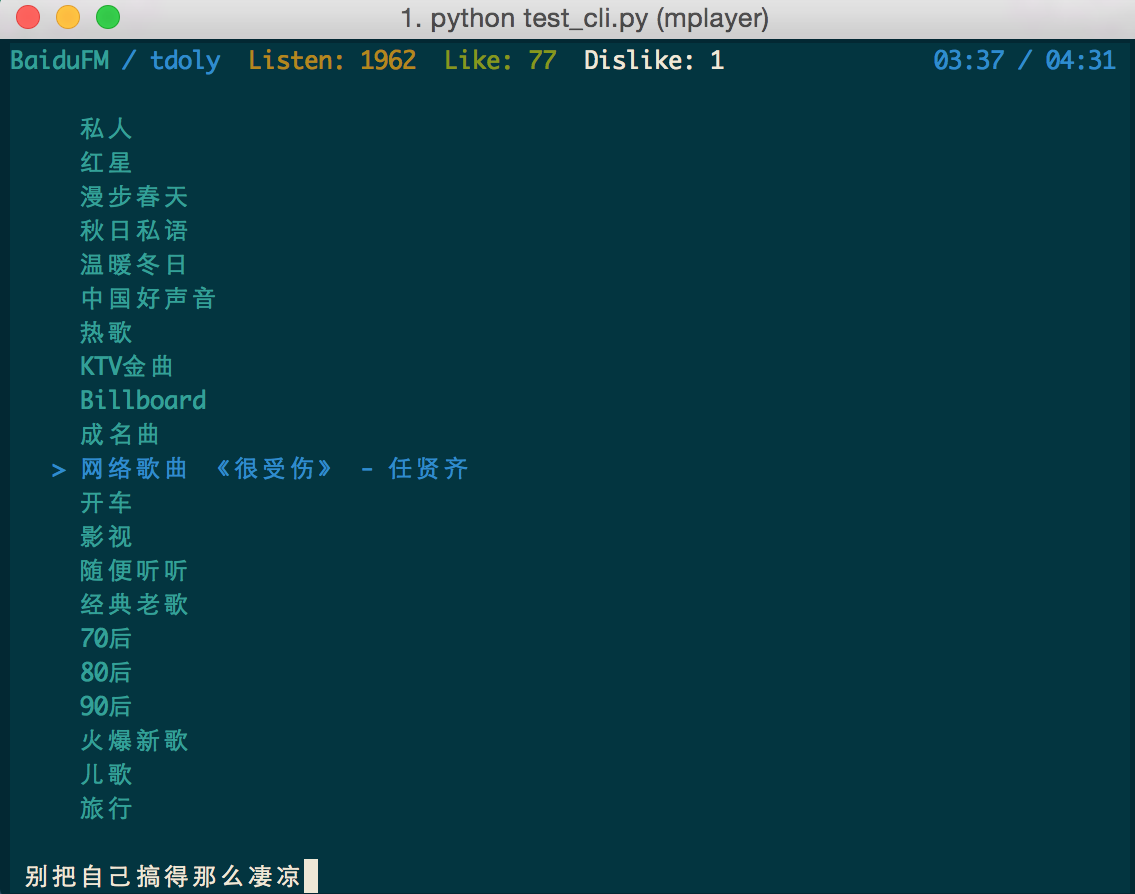
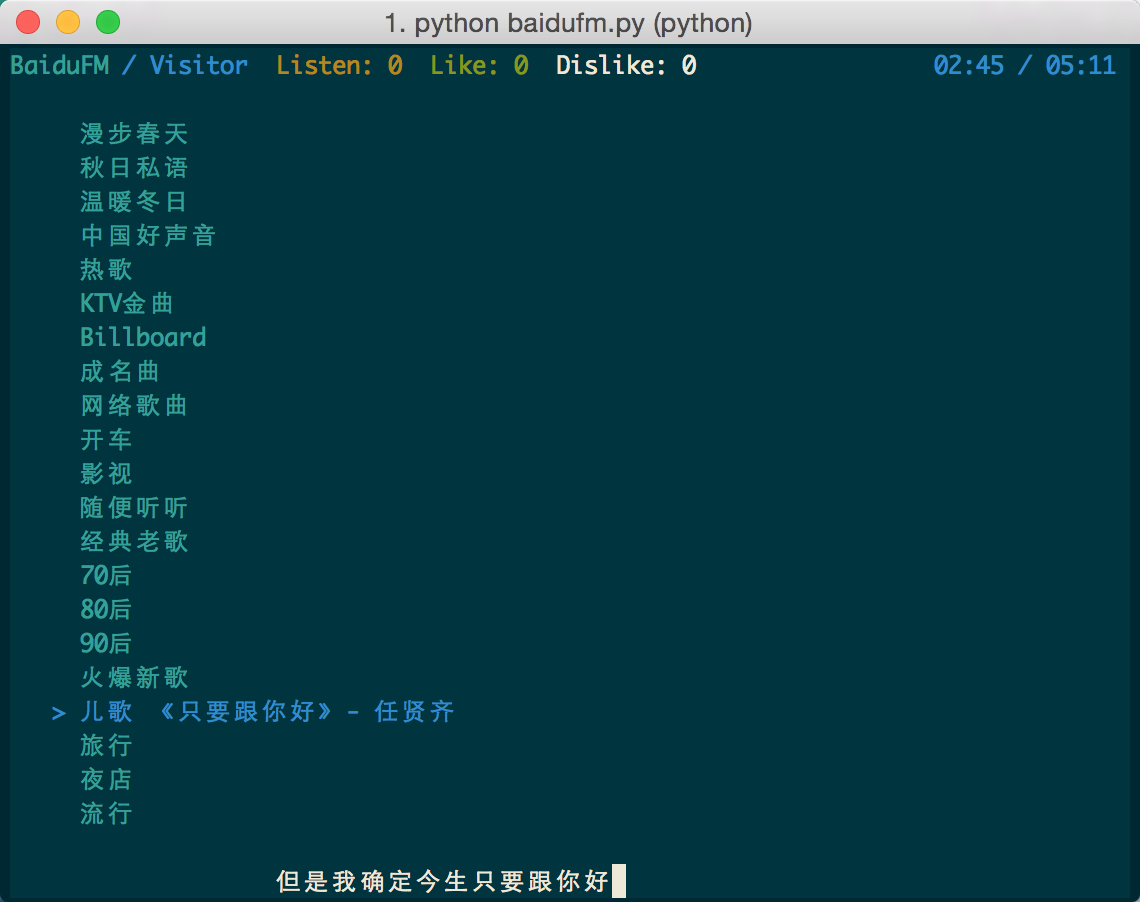
show Captcha

diff --git a/index.html b/index.html
@@ -23,13 +23,24 @@
           <p class="text-center">依赖mplayer或vlc。</p>
         </section>
         <div class="text-center">
-        <img src="images/1.png" width="585" height="451">
-      </div>
+          <img src="images/3.png" width="585" height="451">
+        </div>
       </div>
     </div>
     <div class="container">
       <div class="starter-template">
         <section class="content">
+          <h1 id="feature">Feature</h1>
+          <ul>
+            <li>随机播放Baidu FM音乐</li>
+            <li>登录Baidu FM（显示验证码）</li>
+            <li>快捷键操作（上，下选择切歌...）</li>
+            <li>暂停/恢复 播放</li>
+            <li>静音</li>
+            <li>音量调节</li>
+            <li>收藏/取消收藏 音乐</li>
+            <li>音乐加入垃圾箱</li>
+          </ul>
 <h1 id="getting-started">Getting&nbsp;Started</h1>
 <pre><code>
   sudo pip install baidufm
@@ -68,6 +79,17 @@
   d 音乐加入垃圾箱
   # 刷新界面
 </code></pre>
+
+<h1 id="Changelog">changlog</h1>
+<ul>
+  <li>0.2.2 基本功能</li>
+  <li>0.2.3 添加验证码显示功能，修复程序BUG</li>
+</ul> 
+<div class="text-center">
+  <img src="images/2.png" width="585" height="451">
+</div>
+<h1 id="License">License</h1>
+<p>MIT</p>
       </div>
     </div>
 
